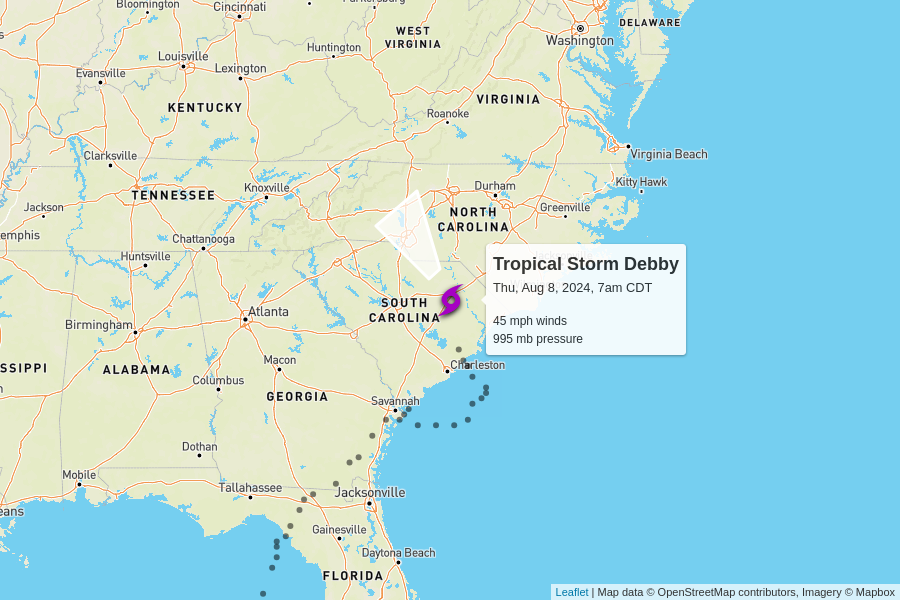
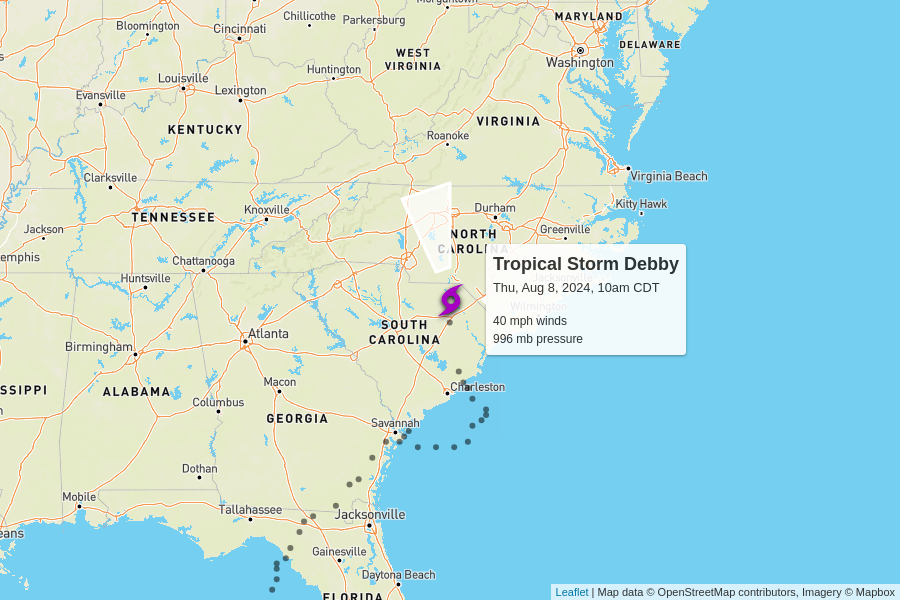
automatic update

Changed region(s): [[0.0, 0.0, 0.8089, 1.0], [0.6844, 0.45, 0.7156, 0.51], [0.0, 0.54, 0.0311, 0.57]]

diff --git a/docs/index.html b/docs/index.html
@@ -102,7 +102,7 @@
         <td colspan="6" class="storm category-0" >
           <h2>
             Tropical Storm Debby
-            <p class="updated">last updated <span data-time>2024-08-08T12:00:00.000Z</span></p>
+            <p class="updated">last updated <span data-time>2024-08-08T15:00:00.000Z</span></p>
           </h2>
         </td>
       </tr>
@@ -117,12 +117,12 @@
       </tr>
       <tr>
         <td class="spacer"></td>
-        <td>45 mph<br>-5 mph since last update</td>
-        <td>995 mb<br>+1 mb since last update</td>
+        <td>40 mph<br>-5 mph since last update</td>
+        <td>996 mb<br>+1 mb since last update</td>
         <td>
-          7 mph to the northwest
+          10 mph to the north-northwest
           <br/>
-          <span style="display: inline-block; font-size: 1.5em; transform: rotate(325deg);">↑</span>
+          <span style="display: inline-block; font-size: 1.5em; transform: rotate(345deg);">↑</span>
         </td>
         <td><a href="https://raw.githubusercontent.com/mgwalker/atlantic-hurricanes/main/data/csv/AL042024.csv">AL042024.csv</a></td>
         <td><a href="https://www.nhc.noaa.gov/archive/2024/DEBBY.shtml?">NHC advisories</a></td>
